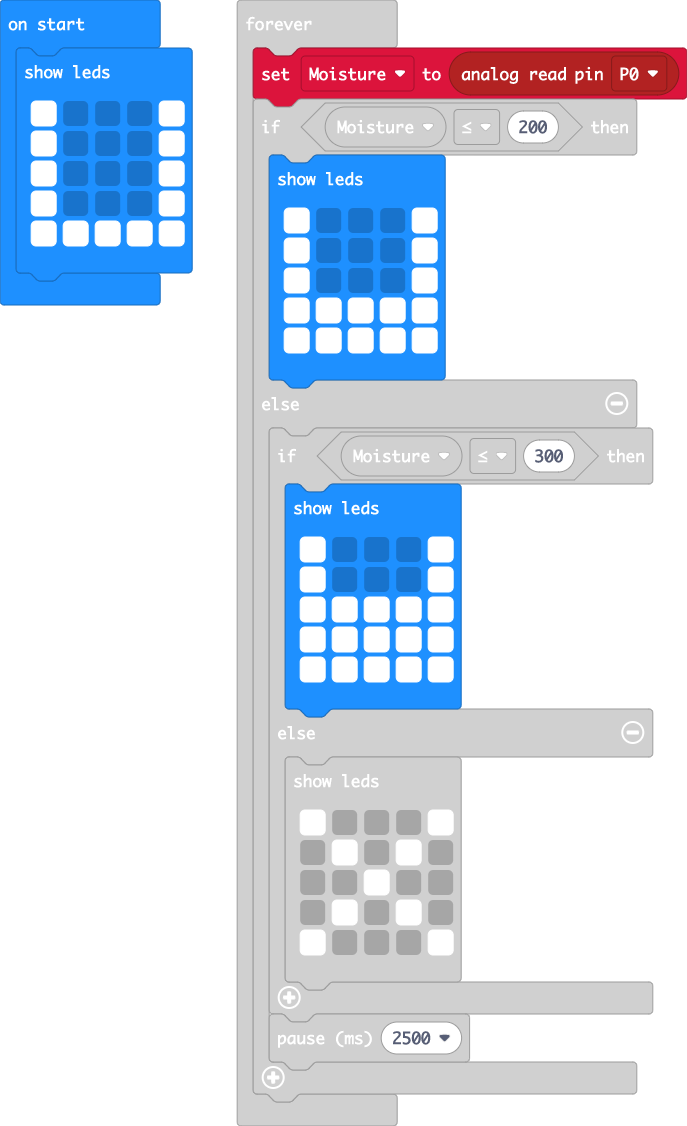
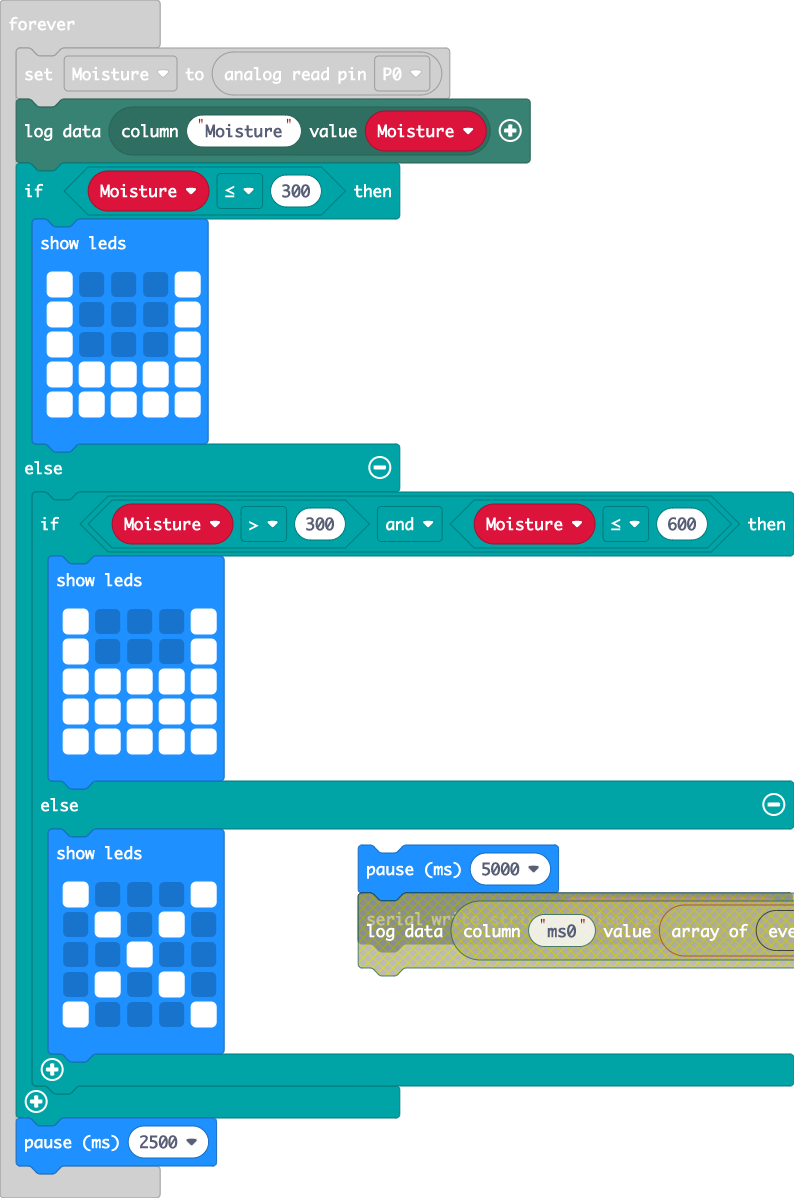
For calibration

diff --git a/main.ts b/main.ts
@@ -8,7 +8,8 @@ basic.showLeds(`
     `)
 basic.forever(function () {
     Moisture = pins.analogReadPin(AnalogPin.P0)
-    if (Moisture <= 200) {
+    datalogger.log(datalogger.createCV("Moisture", Moisture))
+    if (Moisture <= 300) {
         basic.showLeds(`
             # . . . #
             # . . . #
@@ -17,7 +18,7 @@ basic.forever(function () {
             # # # # #
             `)
     } else {
-        if (Moisture <= 300) {
+        if (Moisture > 300 && Moisture <= 600) {
             basic.showLeds(`
                 # . . . #
                 # . . . #
@@ -34,6 +35,6 @@ basic.forever(function () {
                 # . . . #
                 `)
         }
-        basic.pause(2500)
     }
+    basic.pause(2500)
 })
